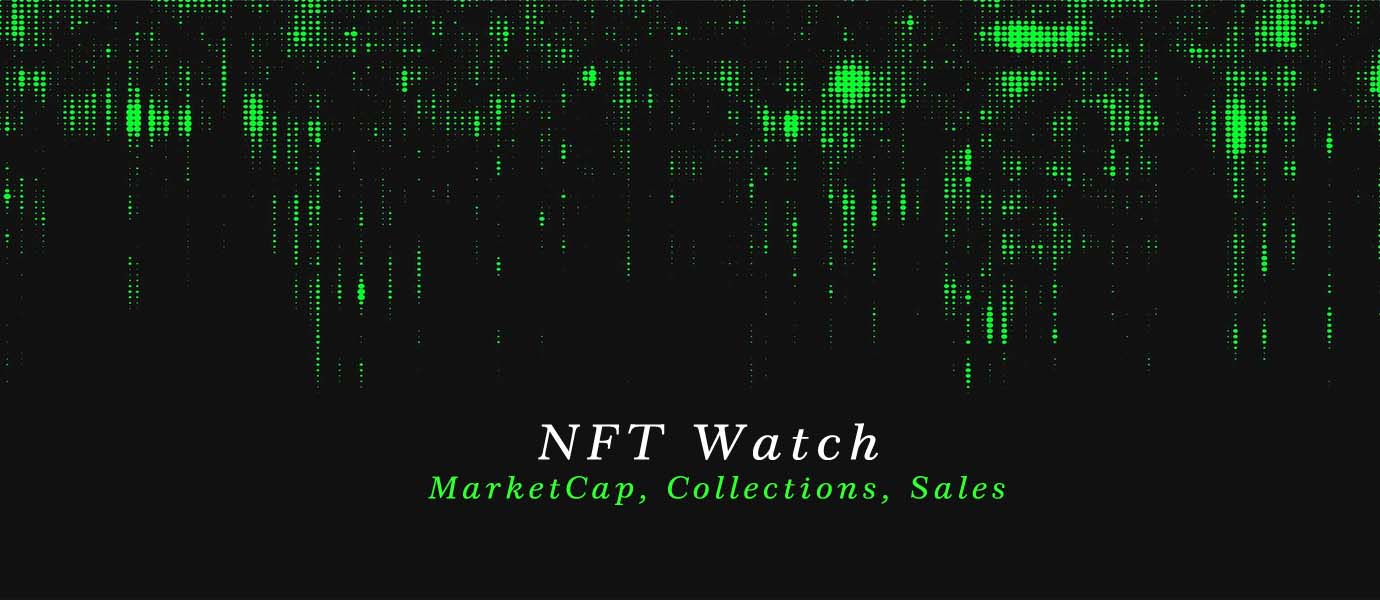
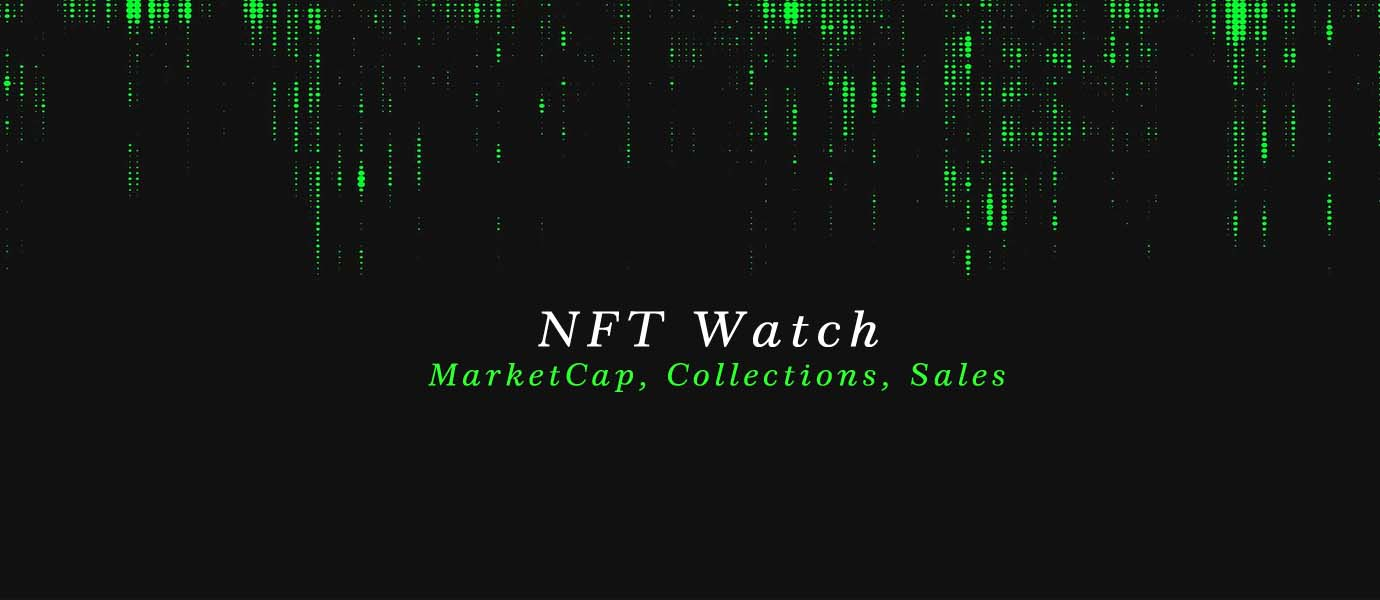
style update

diff --git a/src/comps/table/index.js b/src/comps/table/index.js
@@ -16,6 +16,7 @@ const Table = ({data, onClick}) => {
     <table className="table">
       <thead>
         <tr className="title-row">
+          <th className="position" ></th>
           <th className="collection-name">Collection</th>
           <th className="align-right">Market Cap</th>
           <th className="align-right">24hr Volume </th>
@@ -28,6 +29,7 @@ const Table = ({data, onClick}) => {
       {data && data.map((o,i)=>{
         return (
           <tr key={i} className="data-row" onClick={()=>{onClick(o.collection_address)}}>
+            <td className="position" style={{fontWeight:"400"}}>{i + 1}</td>
             <td className="collection-name" style={{fontWeight:"600"}}>{o.collection_name ? o.collection_name : "null"}</td>
             <td className="align-right">{o.market_cap_quote ? formatter.format(o.market_cap_quote).split('.')[0] : "null"}</td>
             <td className="align-right">{o.volume_quote_24h ? formatter.format(o.volume_quote_24h).split('.')[0] : "null"}</td>

diff --git a/src/App.js b/src/App.js
@@ -9,20 +9,20 @@ const dotenv = require('dotenv')
 function App() {
   return (
     <div className="App">
-    <Router>
-      <Switch>
-        <Route path="/nft/:address/:id">
-          <NFTView />
-        </Route>
-        <Route path="/collection/:address/:id">
-          <CollectionView />
-        </Route>
-        <Route path="/" component={LandingPage} /> 
-      </Switch>
-    </Router>
-    <div className="logo">
-      <img src={Logo}></img>
-    </div>
+      <Router>
+        <Switch>
+          <Route path="/nft/:address/:id">
+            <NFTView />
+          </Route>
+          <Route path="/collection/:address/:id">
+            <CollectionView />
+          </Route>
+          <Route path="/" component={LandingPage} /> 
+        </Switch>
+      </Router>
+      {/* <div className="logo">
+        <img src={Logo}></img>
+      </div> */}
     </div>
   );
 }

diff --git a/src/pages/Landing/style.css b/src/pages/Landing/style.css
@@ -10,3 +10,32 @@
   top:50px;
   right:80px;
 }
+
+.total-table{
+  background-color: white;
+  padding: 2.5rem;
+  margin-bottom: 2rem;
+  margin-top: 2rem;
+  color: black;
+}
+
+.total-table .title-row,.total-table .data-row{
+  text-align: center;
+}
+
+.total-table td, tr, th{
+  padding:8px 60px 0px 0px;
+  border:none;
+}
+
+.total-table .title-row{
+  font-size:20px;
+  color:#00D8D5;
+  font-weight: bold;
+}
+
+.total-table .data-row{
+  color:#0f033b;
+  font-size:24px;
+  font-weight:bold;
+}

diff --git a/src/pages/Landing/index.js b/src/pages/Landing/index.js
@@ -57,7 +57,7 @@ export default function LandingPage() {
           :
           <>
             
-            <table className="collection-table">
+            <table className="total-table">
               <thead>
                 <tr className="title-row">
                   <td>Total Market Cap</td>

diff --git a/src/App.css b/src/App.css
@@ -19,14 +19,14 @@
   background-position: center;
   background-repeat:no-repeat;
   background-size: cover;
-  height:34%;
+  height:30%;
 }
 
 @media print, screen and (min-width: 1240px) {
   .banner{
     padding:0;
     
-    height:44%;
+    height:38%;
   }
 
 

diff --git a/src/comps/table/style.css b/src/comps/table/style.css
@@ -34,3 +34,8 @@
   padding:8px;
 }
 
+.position{
+  padding: 8px;
+  width: 22px;
+}
+
